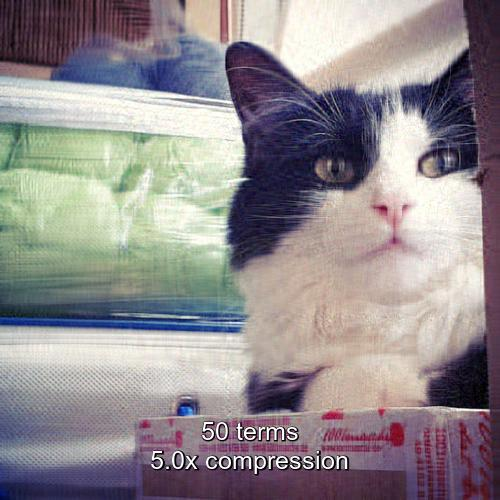
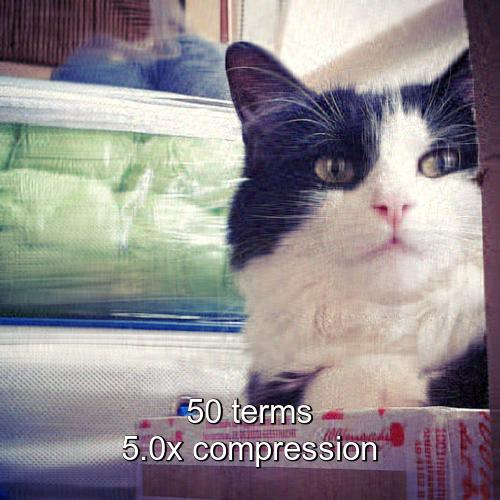
Compress sample images

Changed region(s): [[0.24, 0.78, 0.78, 0.96]]

diff --git a/src/annotate.py b/src/annotate.py
@@ -58,8 +58,10 @@ def annotate_from_width(path, terms, width, ratio):
 
     if width < 200:
         fontsize = int(width / 10)
-    else:
+    elif width < 800:
         fontsize = int(width / 15)
+    else:
+        fontsize = int(width / 20)
 
     compresion_x = round(1/ratio, 1)
     annotate(path=path, terms=terms, compression=compresion_x, fontsize=fontsize)
